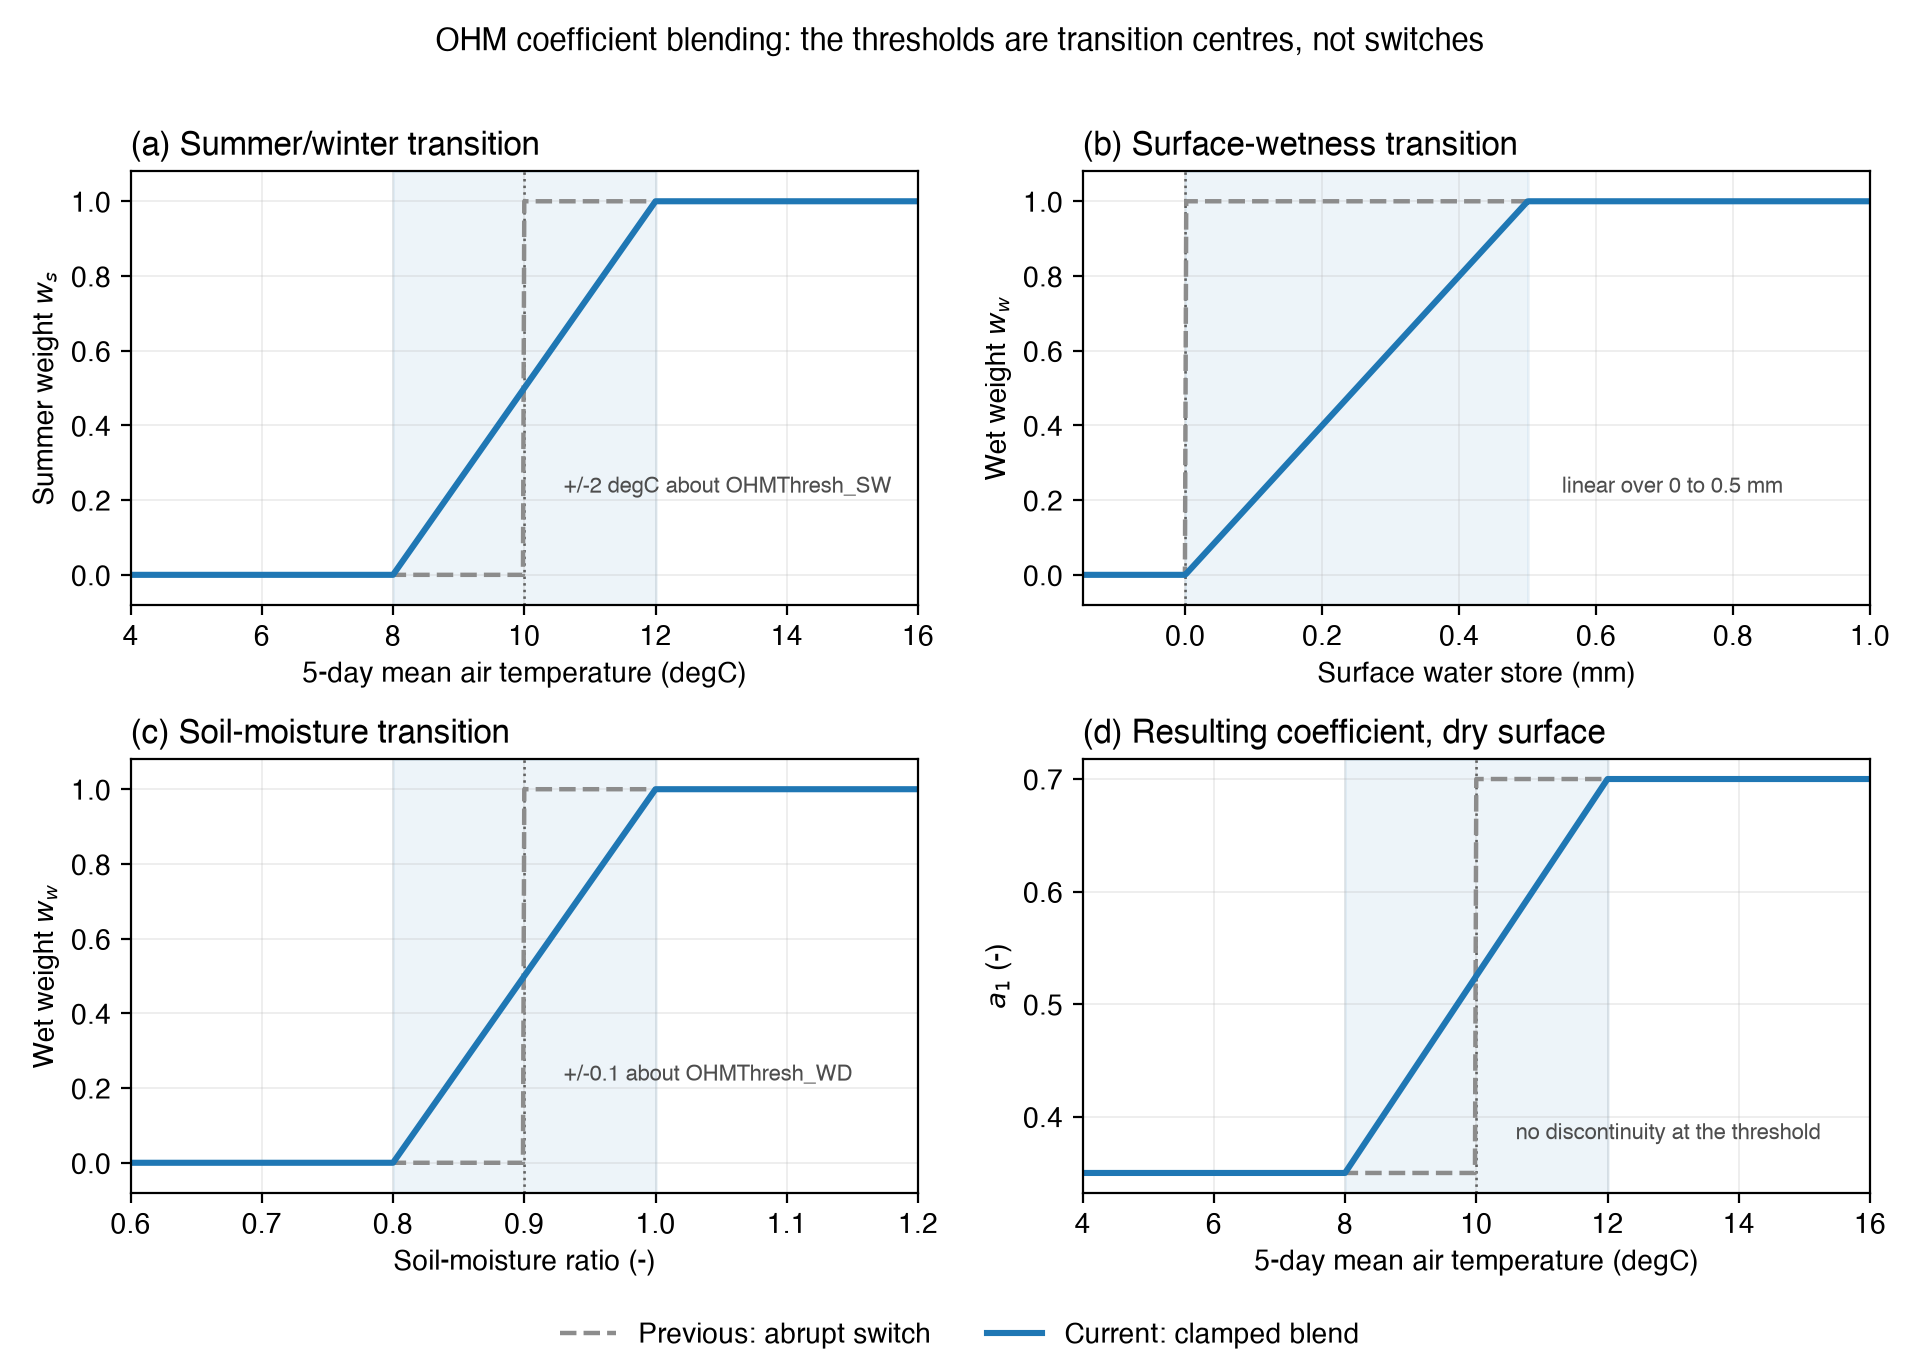
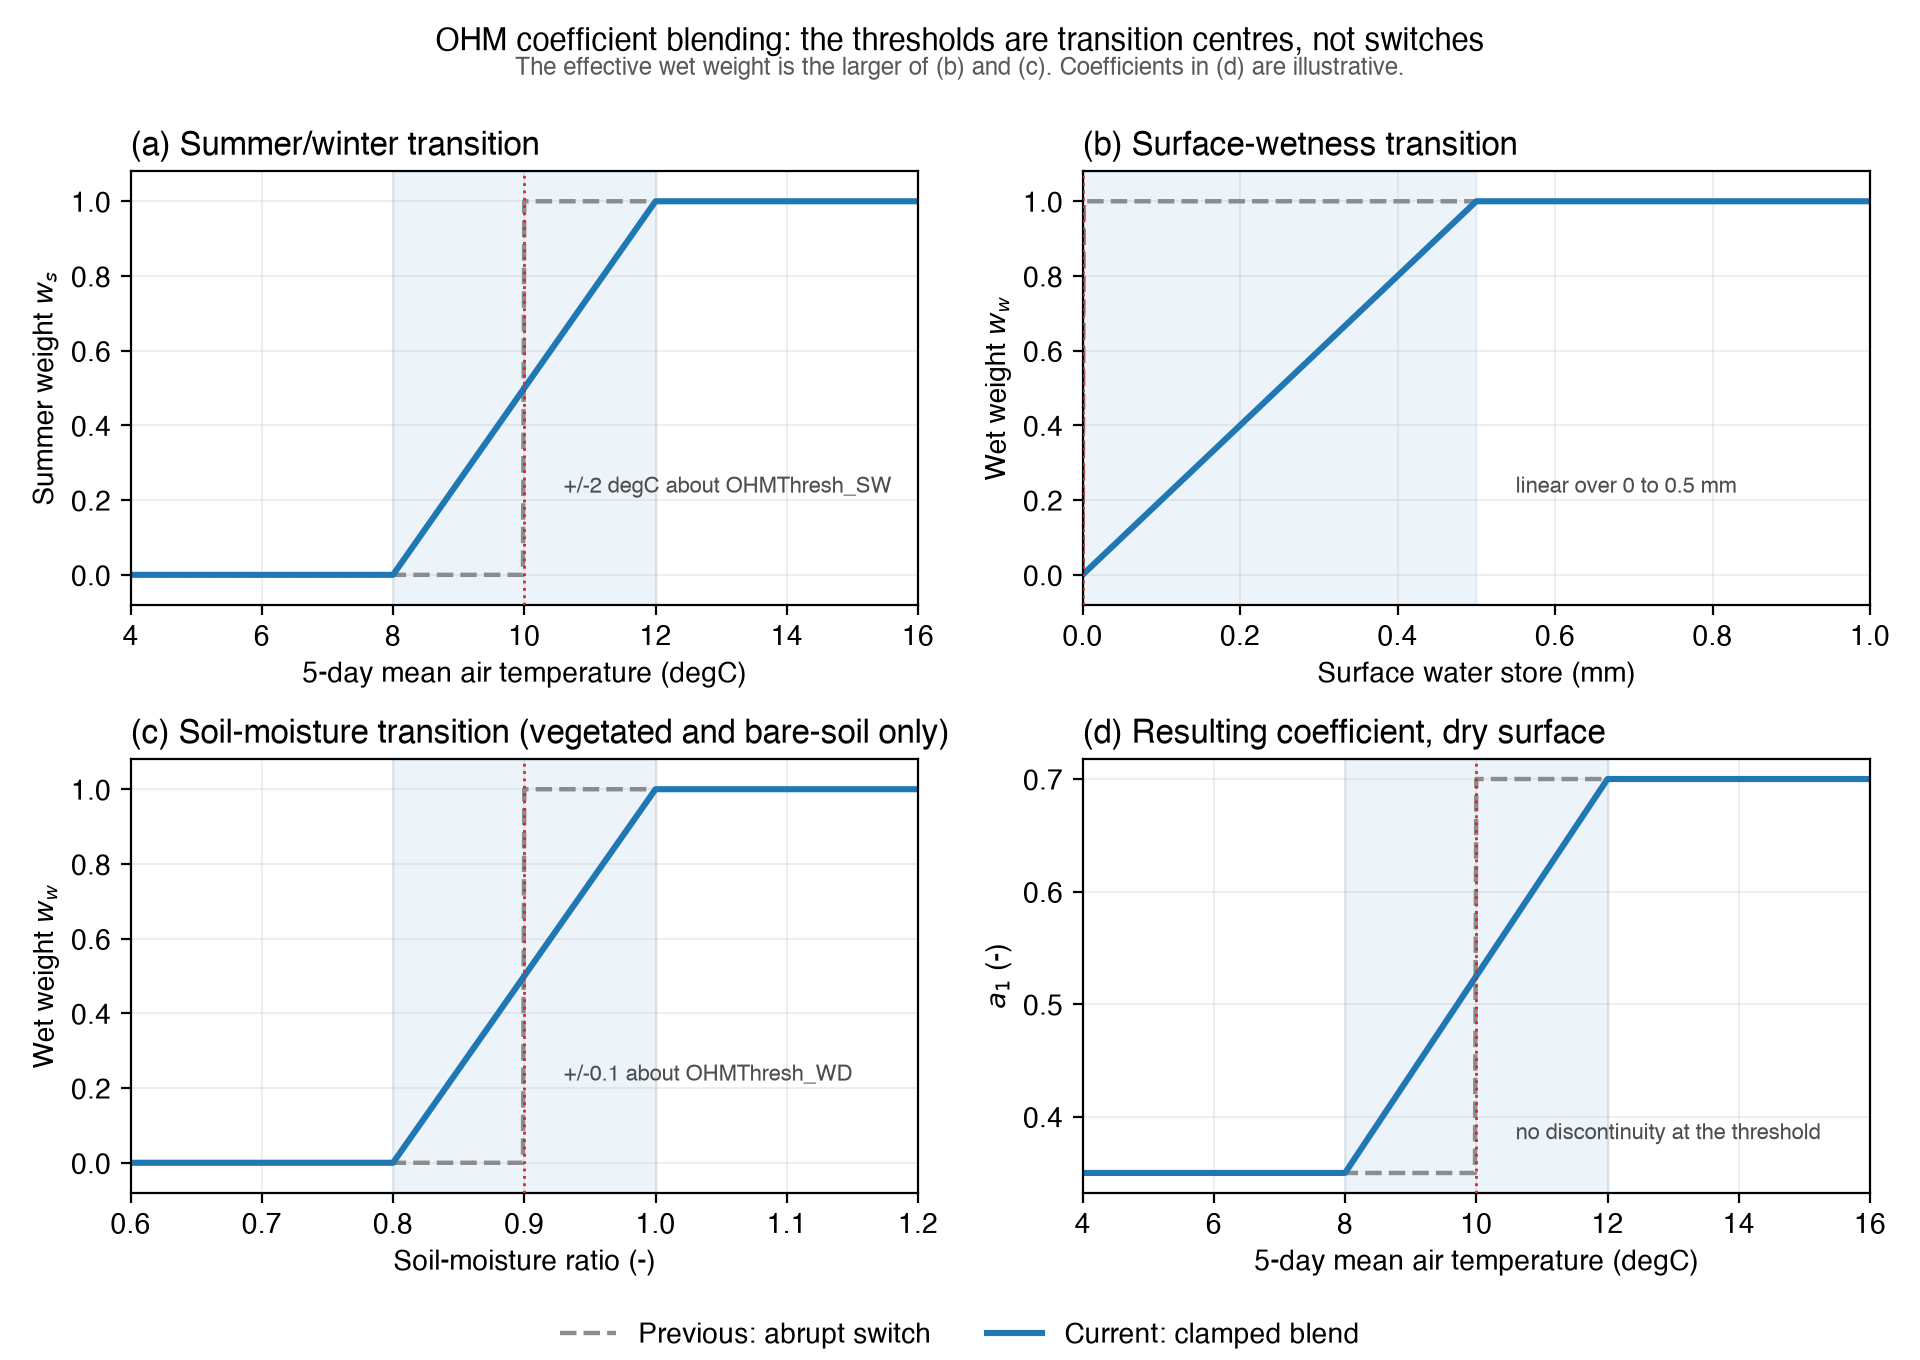
docs(ohm): make the transition figure self-explanatory
The figure is liable to be lifted out of the docs into a slide, where the
surrounding prose will not travel with it. Say the load-bearing things on
the figure itself:

- state that the effective wet weight is the larger of (b) and (c), and
  that the coefficients in (d) are illustrative
- name the surfaces panel (c) applies to (vegetated and bare-soil only)
- draw the threshold centre above the step line rather than under it; it
  was hidden by the very curve it is meant to contrast with
- start the surface-store axis at zero, not at a negative water store

diff --git a/docs/plot_ohm_transitions.py b/docs/plot_ohm_transitions.py
@@ -69,7 +69,7 @@ def shade_transition(ax, centre, half_width):
         alpha=0.08,
         zorder=0,
     )
-    ax.axvline(centre, color="0.3", linewidth=0.9, linestyle=":", zorder=1)
+    ax.axvline(centre, color="#d62728", linewidth=1.0, linestyle=":", zorder=3)
 
 
 def main():
@@ -94,9 +94,9 @@ def main():
 
     # (b) wet weight against the surface water store
     ax = axes[0, 1]
-    state = np.linspace(-0.15, 1.0, 601)
+    state = np.linspace(0.0, 1.0, 601)
     ax.axvspan(0.0, SURFACE_WETNESS_WIDTH, color="#1f77b4", alpha=0.08, zorder=0)
-    ax.axvline(0.0, color="0.3", linewidth=0.9, linestyle=":", zorder=1)
+    ax.axvline(0.0, color="#d62728", linewidth=1.0, linestyle=":", zorder=3)
     ax.plot(state, (state > 0.0).astype(float), **STEP_STYLE)
     ax.plot(state, weight_surface_wet(np.clip(state, 0.0, None)), **BLEND_STYLE)
     ax.set_xlabel("Surface water store (mm)")
@@ -118,7 +118,7 @@ def main():
     ax.plot(ratio, weight_soil_wet(ratio), **BLEND_STYLE)
     ax.set_xlabel("Soil-moisture ratio (-)")
     ax.set_ylabel("Wet weight $w_w$")
-    ax.set_title("(c) Soil-moisture transition", loc="left")
+    ax.set_title("(c) Soil-moisture transition (vegetated and bare-soil only)", loc="left")
     ax.annotate(
         f"+/-{SOIL_HALF_WIDTH:.1f} about OHMThresh_WD",
         xy=(THRESH_WD, 0.5),
@@ -159,6 +159,14 @@ def main():
     fig.suptitle(
         "OHM coefficient blending: the thresholds are transition centres, not switches",
         fontsize=11,
+    )
+    fig.text(
+        0.5,
+        0.945,
+        "The effective wet weight is the larger of (b) and (c). Coefficients in (d) are illustrative.",
+        ha="center",
+        fontsize=8.5,
+        color="0.35",
     )
     fig.tight_layout(rect=(0, 0.04, 1, 0.97))
 
